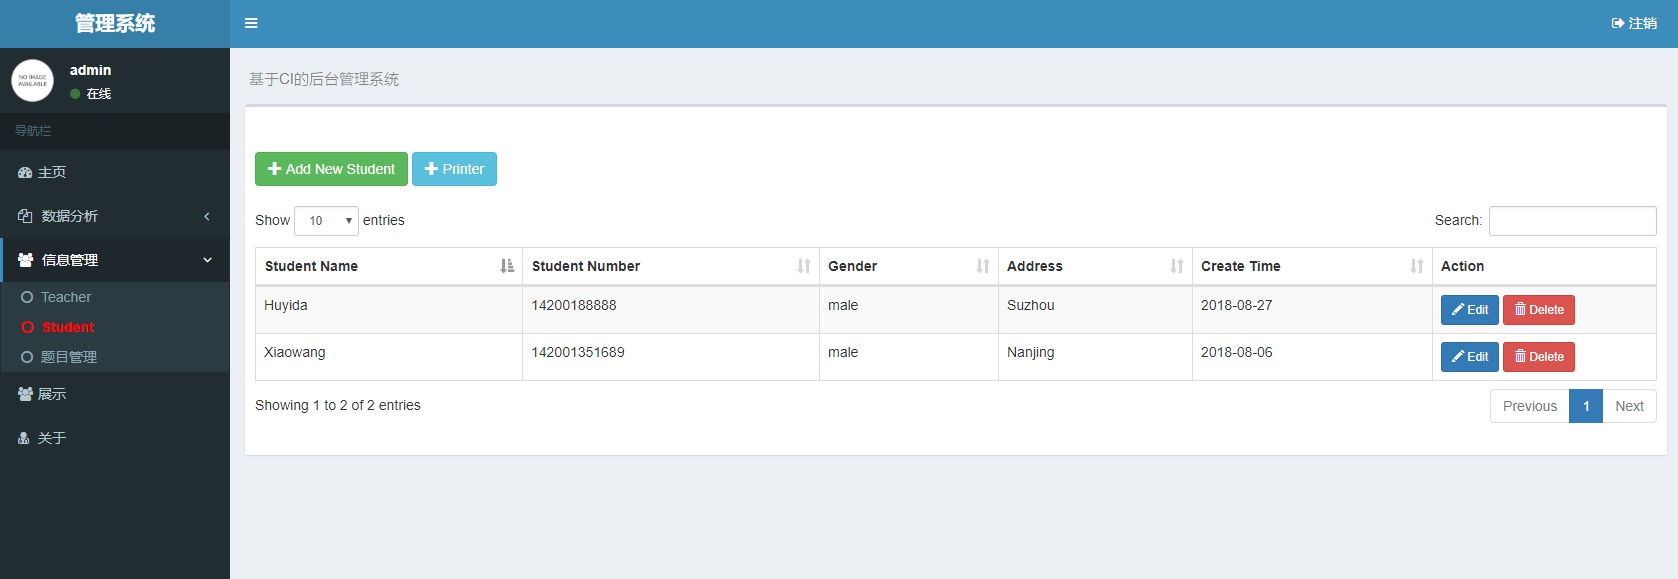
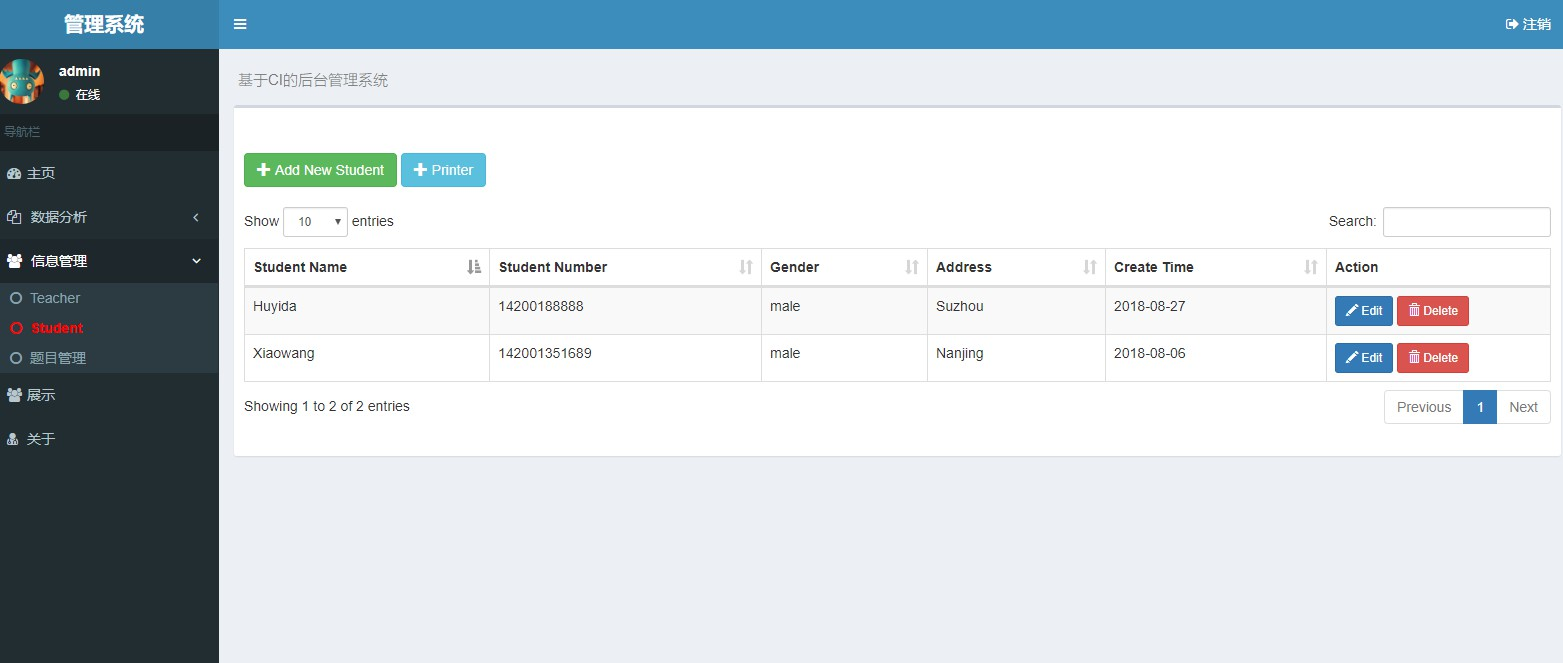
Update README

diff --git a/application/views/navigation_bar.php b/application/views/navigation_bar.php
@@ -7,7 +7,7 @@
         <!-- Sidebar user panel (optional) -->
         <div class="user-panel">
             <div class="pull-left image">
-                <img src="<?= base_url() . 'uploads/nophoto.jpg'; ?>" class="img-circle" alt="User Image"/>
+                <img src="<?= base_url() . 'images/logo.png'; ?>" class="img-circle" alt="User Image"/>
             </div>
             <div class="pull-left info">
                 <p>

diff --git a/README.md b/README.md
@@ -13,15 +13,9 @@ CI-CRUD is a management system based on CodeIgniter.
 
 ![student_main](doc/img/student_main.jpg)
 
-
-
 ![add_new_student](doc/img/add_new_student.jpg)
 
-
-
 ![edit_student](doc/img/edit_student.jpg)
-
-
 
 ![delete_student](doc/img/delete_student.jpg)
 
